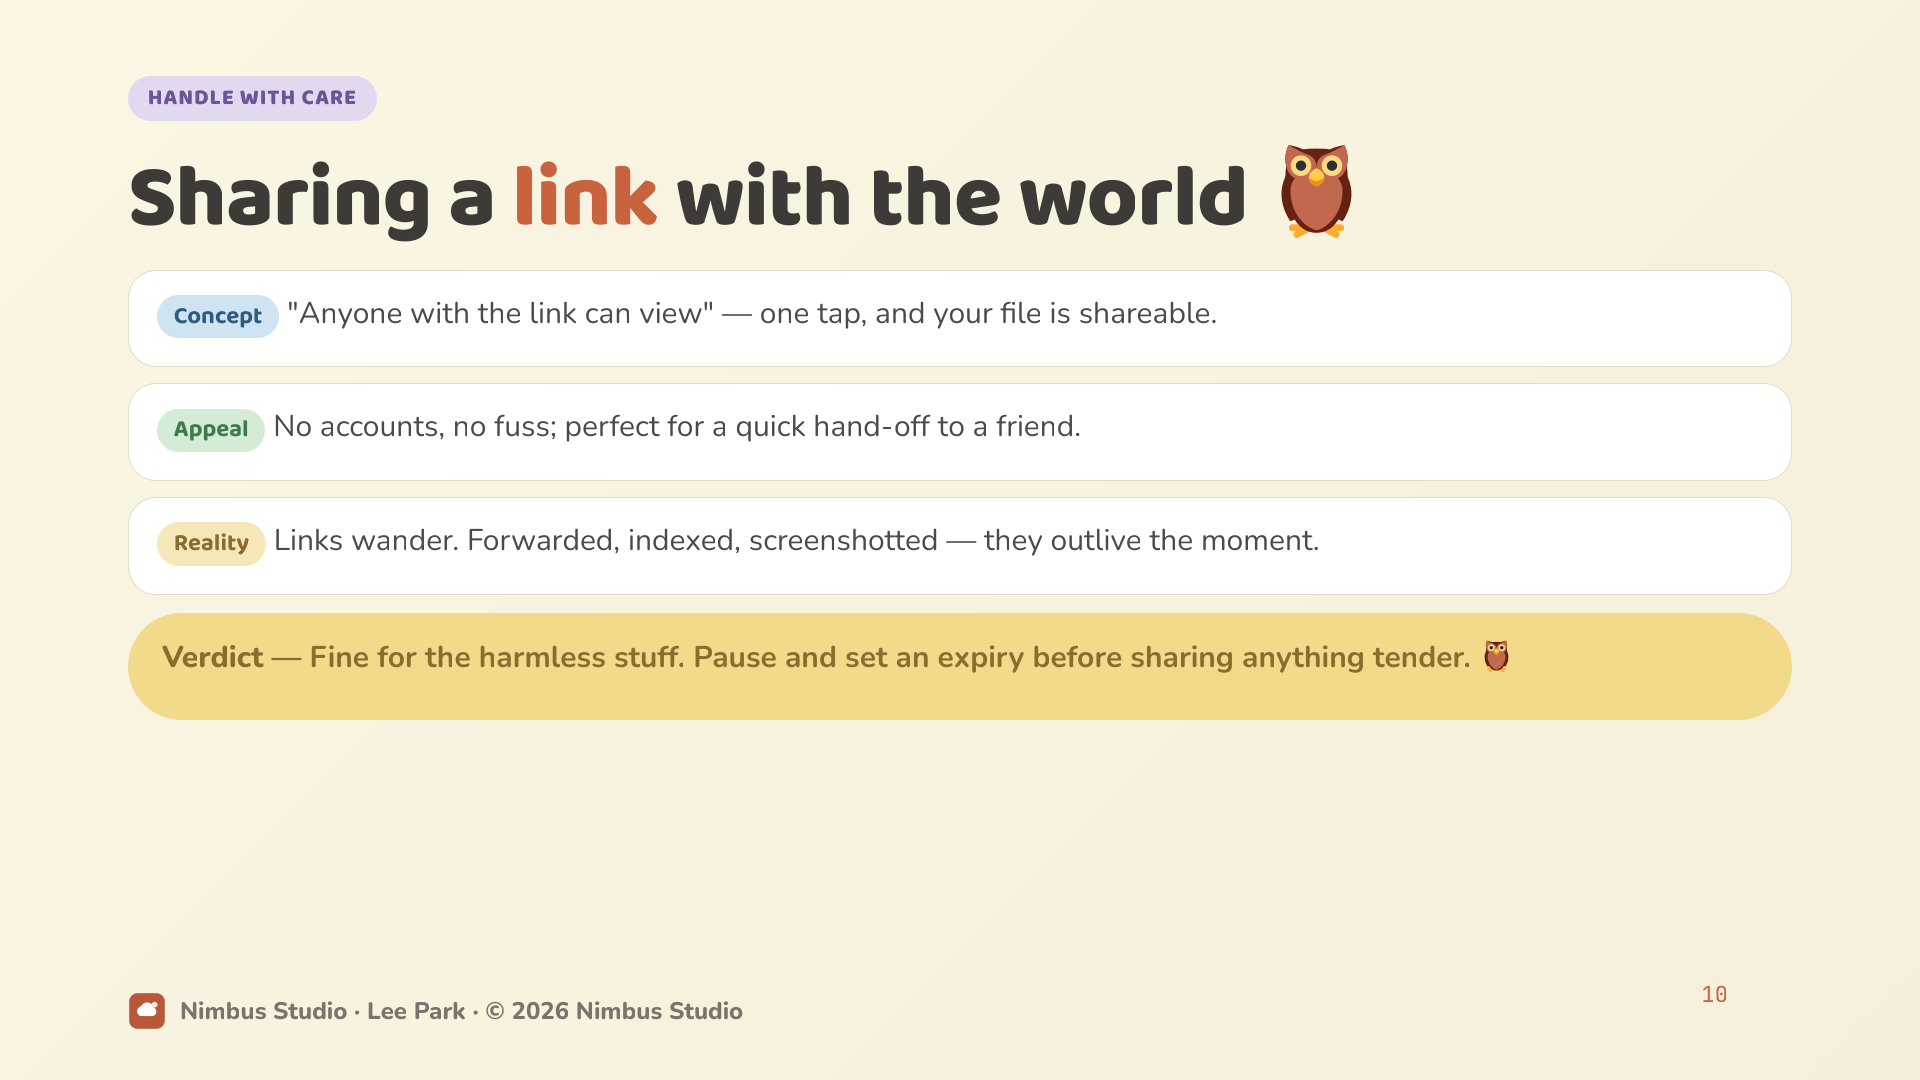
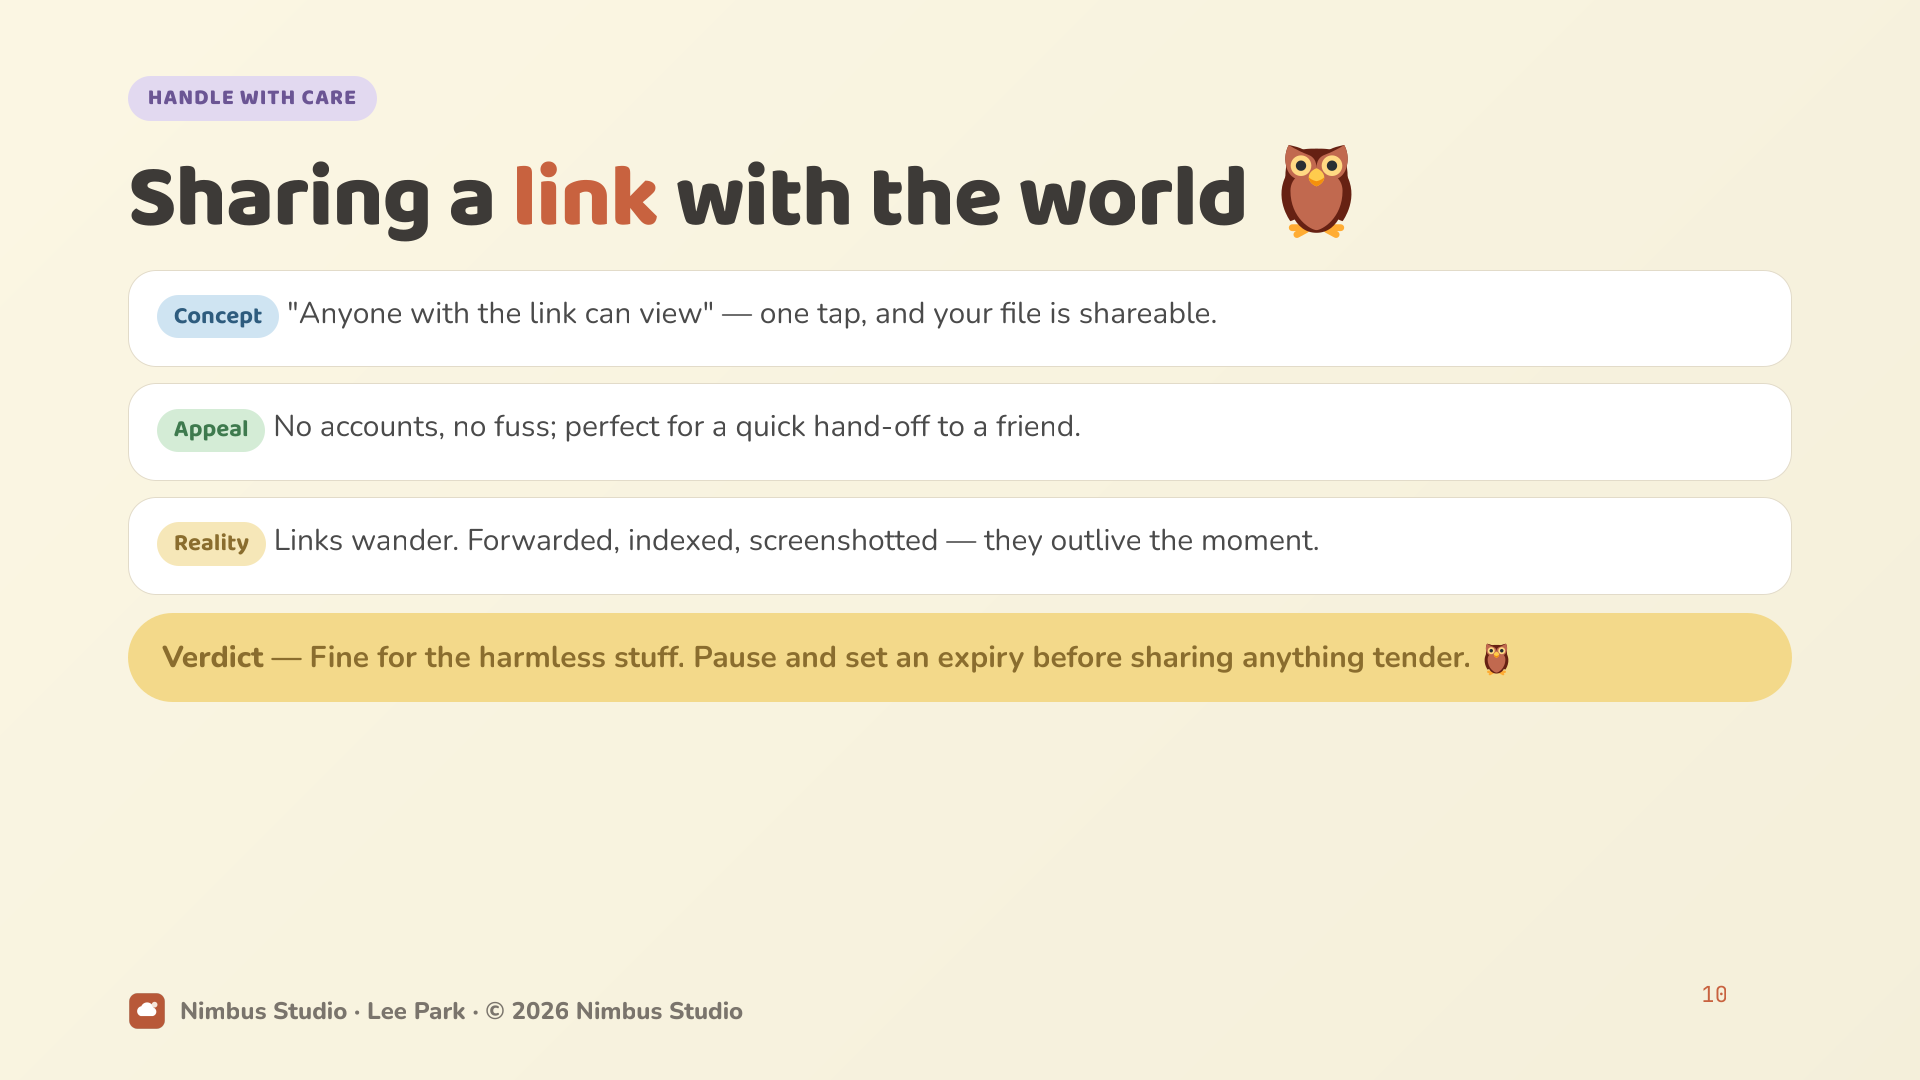
kawaii: vertically center the verdict-pill text on path slides
On the kawaii-storybook `path` (verdict) slide, the verdict pill's text sat high:
the inner <p> carried default top/bottom margins and a trailing emoji drooped
below the baseline (img.emoji vertical-align: -0.18em), lengthening the line box
downward. Flex-center the inner <p>, zero its margins, and middle-align emoji
inside the pill so the verdict text is vertically centered. Re-rendered the
kawaii example (path accept/reject/caution = pages 8/9/10).

Changed region(s): [[0.0625, 0.6417, 0.9375, 0.6722]]

diff --git a/plugins/docsmith/assets/templates/kawaii-storybook/assets/theme.css b/plugins/docsmith/assets/templates/kawaii-storybook/assets/theme.css
@@ -317,7 +317,13 @@ blockquote { margin: 26px 0 0; border: 0; background: var(--ks-accept-tint);
   font-weight: 700; font-size: 30px; box-shadow: var(--ks-shadow-sm); }
 blockquote strong { color: inherit; }
 section.path blockquote, section.scorecard blockquote { clear: both; }
-section.path blockquote { margin-top: 18px; }
+/* Vertically center the verdict text in its pill: flex-center the inner <p>,
+   drop its default top/bottom margins, and stop a trailing emoji from drooping
+   below the baseline (which lengthened the line box downward and made the text
+   sit high). */
+section.path blockquote { margin-top: 18px; display: flex; align-items: center; }
+section.path blockquote > p { margin: 0; width: 100%; }
+section.path blockquote img.emoji { vertical-align: middle; }
 section.accept blockquote { background: linear-gradient(135deg, var(--ks-accept-a), var(--ks-accept-b));
   color: #fff; border-radius: var(--ks-r-pill); box-shadow: var(--ks-shadow-md); }
 section.reject blockquote { background: linear-gradient(135deg, var(--ks-reject-a), var(--ks-reject-b));